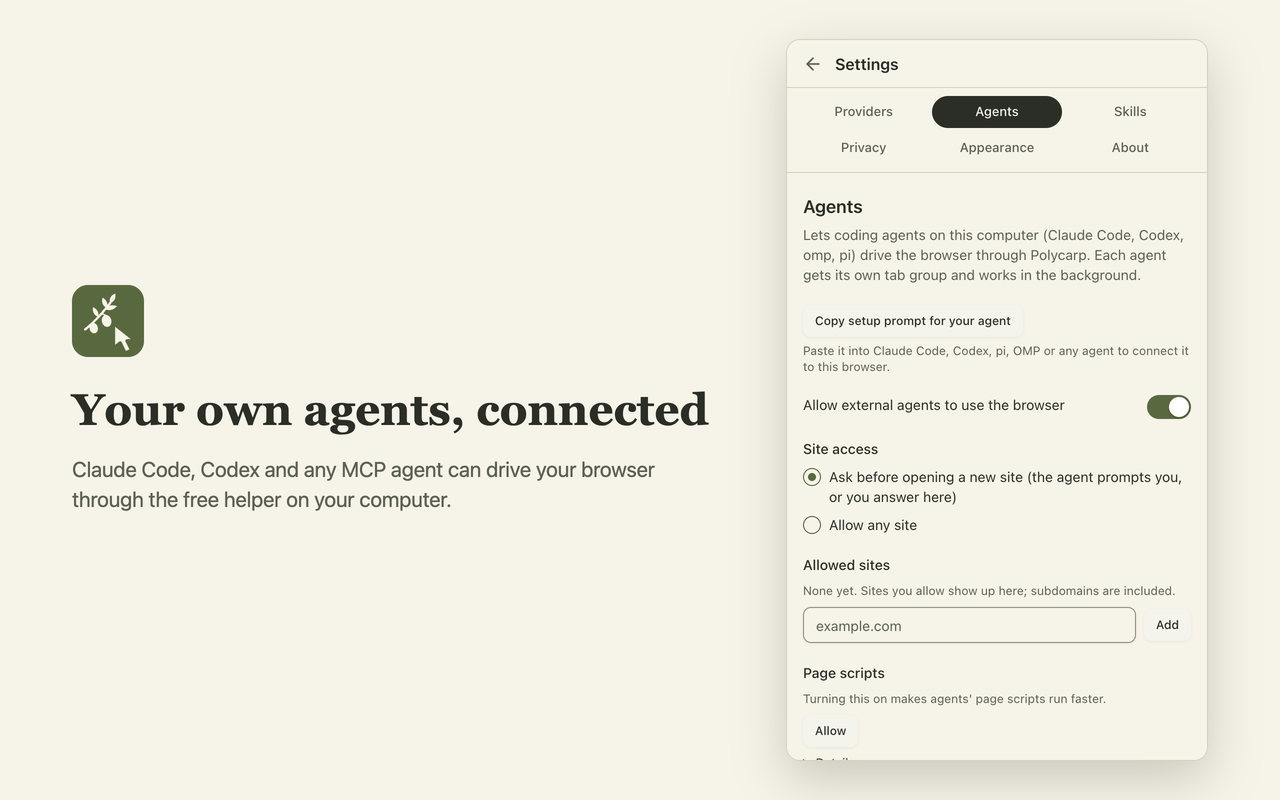
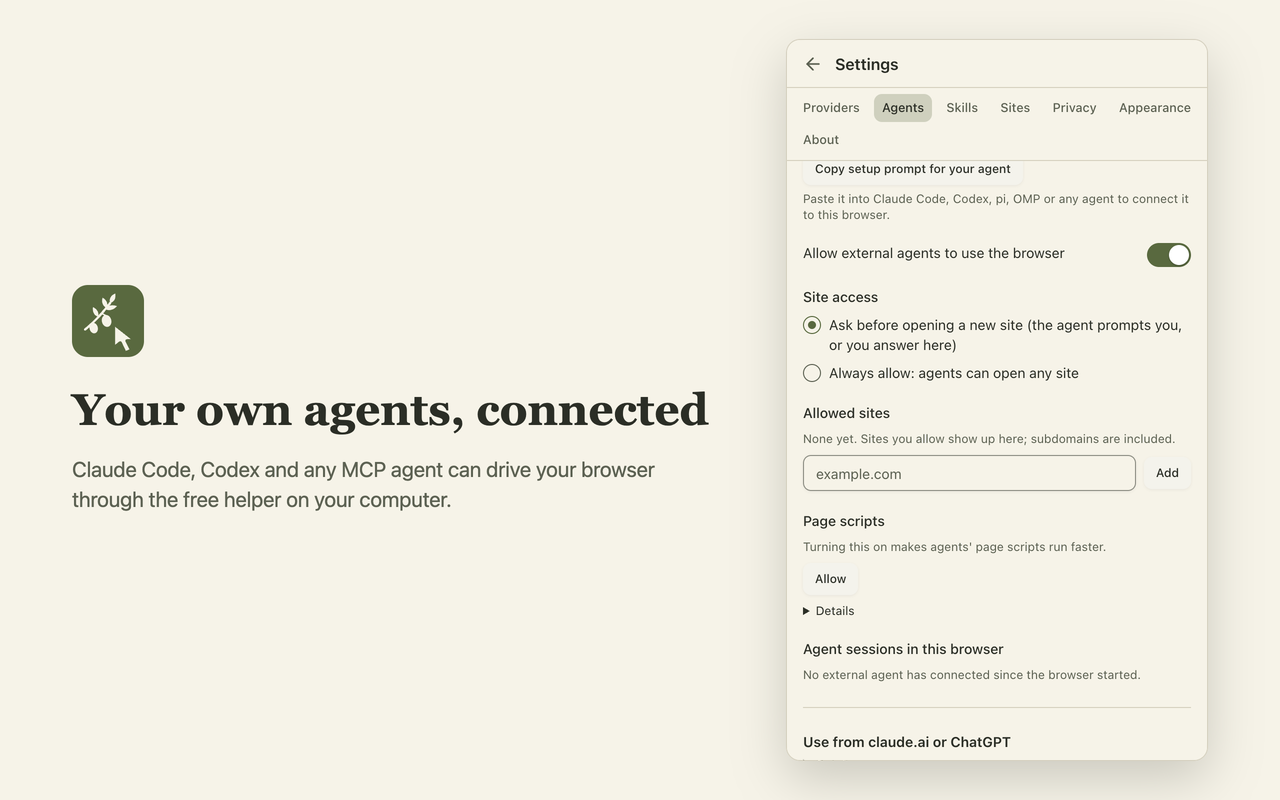
Helper: source installs are polycarp-browser; store shots redrawn (#87)
* Helper: source installs are polycarp-browser, and the panel never shows the old name

* wait no longer starves background tabs of rendering; let go of a crashed page's debugger session

* wait backs off so background tabs on Linux run IntersectionObserver; exports use the Polycarp name

infinite-scroll gates CI again.

* Bench: state what was measured about infinite-scroll on Linux

* Store: redraw the Connect, Privacy and Agents shots from the current panel

* Helper: report the name it is linked under; prompts handle older tags and helpers

* Test: isolate PATH in the linked-name check

---------

diff --git a/src/agent-setup-prompt.ts b/src/agent-setup-prompt.ts
@@ -1,12 +1,12 @@
-/** The two names a person types for this program: the one the app's helper answers to, and the one an npm link or checkout has. */
-const COMMANDS = ["polycarp browser", "tabkyra"];
+/** The names a person types for this program: the one the app's helper answers to, the one an npm link or checkout has, and the older one a helper installed earlier may still answer to. */
+const COMMANDS = ["polycarp browser", "polycarp-browser", "tabkyra"];
 
 /**
  * A prompt the user pastes into their own agent (Claude Code, Codex, pi, OMP, OpenCode,
  * Cursor, ...). The agent installs the CLI, connects the MCP server and installs the skills.
  * Plain steps only: no piped installers, and nothing that asks for a key or password.
  */
-export function agentSetupPrompt(version: string, command = "tabkyra"): string {
+export function agentSetupPrompt(version: string, command = "polycarp-browser"): string {
 	if (!COMMANDS.includes(command)) throw new Error(`Unknown command name "${command}".`);
 	// Without the version the clone can't be pinned, so refuse rather than copy a broken prompt.
 	if (!/^\d+\.\d+\.\d+/.test(version)) throw new Error(`No extension version to pin the CLI to (got "${version}").`);
@@ -20,16 +20,16 @@ export function agentSetupPrompt(version: string, command = "tabkyra"): string {
    - If it doesn't exist: mkdir -p ~/polycarp-src && cd ~/polycarp-src && git clone --depth 1 --branch browser-v${version} https://github.com/baney75/polycarp && cd polycarp
      If that tag doesn't exist, run the same clone without --branch browser-v${version} and tell me you used the newest code.
    - Then: (cd browser/cli && npm ci && npm run build && npm link)
-   The npm link gives the command the name tabkyra.${command === "tabkyra" ? "" : ` Once it succeeds, run "tabkyra" in place of "${command}" in every command below, whichever name this prompt started with.`} If npm link fails with a permissions error, run "node ~/polycarp-src/polycarp/browser/cli/dist/index.js" in place of "${command}" in every command below.
+   The npm link gives the command the name polycarp-browser, or tabkyra if the tag above is an older one: run command -v polycarp-browser, and use tabkyra if only that exists. Use the name that exists in place of "${command}" in every command below, whichever name this prompt started with. If npm link fails with a permissions error, run "node ~/polycarp-src/polycarp/browser/cli/dist/index.js" in place of "${command}" in every command below.
 3. Run: ${command} setup --yes
    It registers the browser connection and adds the MCP server to Claude Code and Codex.
 4. Connect this harness, even if Polycarp already works in another one:
-   - Any MCP client: a stdio server named "polycarp" that runs ~/.config/tabkyra/tabkyra with the argument "mcp". JSON configs need the full path, not ~.
+   - Any MCP client: a stdio server named "polycarp" that runs ~/.config/polycarp/browser/polycarp with the argument "mcp". JSON configs need the full path, not ~.
    - pi has no MCP client: run ${command} pi-extension instead.
 5. Install the skills: ${command} skill install
    If this harness reads AGENTS.md instead of skill folders: cd back to the directory step 1 printed (my project, not the Polycarp clone); if you aren't sure it's my project's root, ask me. If its AGENTS.md already has a "## Browser: Polycarp" or "## Browser: Tabkyra" section (the same section under its earlier name), leave it as it is. Otherwise run ${command} skill print >> AGENTS.md
 6. Run ${command} doctor and fix anything it reports with the command it prints.
-7. Restart or reload MCP servers if this harness needs it, then call the status tool of the MCP server named tabkyra. Tell me whether it says connected.
+7. Restart or reload MCP servers if this harness needs it, then call the status tool of the MCP server named polycarp. Tell me whether it says connected.
 
 Don't ask me for API keys or passwords. Polycarp doesn't need them for this.`;
 }
@@ -42,7 +42,7 @@ const CLOSING = "Don't ask me for API keys or passwords. Polycarp doesn't need t
  * --no-passcode, so no long-lived passcode is made or printed into the agent's output, and the
  * prompt pipes nothing into a shell.
  */
-export function remoteSetupPrompt(version: string, command = "tabkyra"): string {
+export function remoteSetupPrompt(version: string, command = "polycarp-browser"): string {
 	if (!COMMANDS.includes(command)) throw new Error(`Unknown command name "${command}".`);
 	if (!/^\d+\.\d+\.\d+/.test(version)) throw new Error(`No extension version to pin the CLI to (got "${version}").`);
 	return `Set up Polycarp (https://github.com/baney75/polycarp) so claude.ai, ChatGPT or grok.com can use my browser through my own computer. The Polycarp extension ${version} is already loaded in my browser. Run each step yourself and show me any output you can't fix. Nothing here costs money or goes through anyone else's server.
@@ -68,7 +68,7 @@ export const CONNECT_CODE = /^TK-[0-9A-HJKMNP-TV-Z]{4}-[0-9A-HJKMNP-TV-Z]{4}$/;
 
 /**
  * A prompt for an agent on another device: link it to this hub with a one-time connect code. That device may have
- * `polycarp browser` (the app) or only `tabkyra` (an npm link or checkout), so the prompt does not carry this
+ * `polycarp browser` (the app) or only `polycarp-browser` (an npm link or checkout), so the prompt does not carry this
  * helper's name: the agent finds out which one runs there and uses it for every later step.
  */
 export function deviceSetupPrompt(version: string, hubUrl: string, code: string): string {
@@ -78,8 +78,9 @@ export function deviceSetupPrompt(version: string, hubUrl: string, code: string)
 	return `Connect this computer's browser to my Polycarp hub at ${hubUrl}, so claude.ai, ChatGPT or grok.com can use it through my one connector. The Polycarp extension ${version} should already be loaded in my browser on this computer. Run each step yourself and show me any output you can't fix.
 
 1. Find the command that runs Polycarp's helper on this computer. Run: polycarp browser doctor
-   If that says the command isn't found, run: tabkyra doctor
-   Use whichever of the two runs, and write it as HELPER in every step below: HELPER is "polycarp browser" or "tabkyra", never both. If neither runs, stop and tell me to copy the setup prompt from Polycarp's Settings > Agents tab and run that first.
+   If that says the command isn't found, run: polycarp-browser doctor
+   If that isn't found either, an older install may answer to: tabkyra doctor
+   Use the first one that runs, and write it as HELPER in every step below: HELPER is exactly one of "polycarp browser", "polycarp-browser" or "tabkyra". If neither runs, stop and tell me to copy the setup prompt from Polycarp's Settings > Agents tab and run that first.
 2. Run: HELPER link ${hubUrl} --code ${code}
    The code works once and expires 10 minutes after I copied this prompt. If the hub refuses it, tell me to get a new one in Settings > Connect > Add a device.
 3. Run: HELPER link status

diff --git a/cli/src/commands.ts b/cli/src/commands.ts
@@ -285,7 +285,7 @@ export const COMMANDS: CommandSpec[] = [
 	{ name: "install", what: "Re-register the native host with every browser, or with --browser <name> only that one", group: "Troubleshoot", flags: ["--force", "--browser"] },
 	{ name: "reload", what: "Reload the extension after rebuilding dist-chrome", group: "Troubleshoot" },
 	{ name: "debug", what: "Bridge state, request timings and a benchmark (JSON)", group: "Troubleshoot" },
-	{ name: "completion", positional: 1, args: "zsh|bash|fish", what: 'Completions for the tabkyra command name: eval "$(tabkyra completion zsh)"', group: "Troubleshoot", values: ["zsh", "bash", "fish"] }, // product-name allowlist: completions are for the tabkyra command name
+	{ name: "completion", positional: 1, args: "zsh|bash|fish", what: `Completions for ${COMMAND_NAME}: eval "$(${COMMAND_NAME} completion zsh)"`, group: "Troubleshoot", values: ["zsh", "bash", "fish"] }, // product-name allowlist: the alias is still completed
 	{ name: "version", what: "This CLI's version (also --version)", group: "Troubleshoot", flags: ["--json"] },
 	{ name: "help", selfParsed: true, what: "This help (also --help)", group: "Troubleshoot", hidden: true },
 	{ name: "host", selfParsed: true, what: "The native host the browser starts", group: "Troubleshoot", hidden: true },
@@ -371,8 +371,8 @@ export function completionScript(shell: string): string | undefined {
 	const pathFlags = [...PATH_VALUES].map(sh).join(" ");
 	if (shell === "zsh") {
 		const lines = [
-			"#compdef tabkyra",
-			'# completion for the tabkyra command name (zsh). Load it with: eval "$(tabkyra completion zsh)"', // product-name allowlist: completions are for the tabkyra command name
+			"#compdef polycarp-browser tabkyra",
+			`# completion for ${COMMAND_NAME} and the tabkyra alias (zsh). Load it with: eval "$(${COMMAND_NAME} completion zsh)"`, // product-name allowlist: the alias is still completed
 			"_tabkyra() {",
 			"  local -a commands subs flags",
 			"  local paths=0",
@@ -416,11 +416,11 @@ export function completionScript(shell: string): string | undefined {
 			"# compdef exists once compinit has run. If the zshrc runs it later (oh-my-zsh, zinit,",
 			"# prezto), register at the first prompt instead of running compinit a second time.",
 			"if (( $+functions[compdef] )); then",
-			"  compdef _tabkyra tabkyra",
+			"  compdef _tabkyra polycarp-browser tabkyra",
 			"else",
 			"  autoload -Uz add-zsh-hook",
 			"  _tabkyra_register() {",
-			"    (( $+functions[compdef] )) && compdef _tabkyra tabkyra",
+			"    (( $+functions[compdef] )) && compdef _tabkyra polycarp-browser tabkyra",
 			"    add-zsh-hook -d precmd _tabkyra_register",
 			"  }",
 			"  add-zsh-hook precmd _tabkyra_register",
@@ -438,7 +438,7 @@ export function completionScript(shell: string): string | undefined {
 				return `    ${sh(f)}) ${values ? `COMPREPLY=( $(compgen -W "${values}" -- "$cur") ); ` : ""}compopt +o default 2>/dev/null; return ;;`;
 			});
 		const lines = [
-			'# completion for the tabkyra command name (bash). Load it with: eval "$(tabkyra completion bash)"', // product-name allowlist: completions are for the tabkyra command name
+			`# completion for ${COMMAND_NAME} and the tabkyra alias (bash). Load it with: eval "$(${COMMAND_NAME} completion bash)"`, // product-name allowlist: the alias is still completed
 			"_tabkyra() {",
 			'  local cur="${COMP_WORDS[COMP_CWORD]}" prev="${COMP_WORDS[COMP_CWORD-1]}" paths=0',
 			"  COMPREPLY=()",
@@ -478,13 +478,13 @@ export function completionScript(shell: string): string | undefined {
 			"  # File names only where the command takes a path (compopt needs bash 4; older bash keeps them).",
 			'  [ "$paths" = 1 ] || compopt +o default 2>/dev/null',
 			"}",
-			"complete -o bashdefault -o default -F _tabkyra tabkyra",
+			"complete -o bashdefault -o default -F _tabkyra polycarp-browser tabkyra",
 			"",
 		);
 		return lines.join("\n");
 	}
 	if (shell === "fish") {
-		const lines = ["# completion for the tabkyra command name (fish). Load it with: tabkyra completion fish | source"]; // product-name allowlist: completions are for the tabkyra command name
+		const lines = [`# completion for ${COMMAND_NAME} and the tabkyra alias (fish). Load it with: ${COMMAND_NAME} completion fish | source`]; // product-name allowlist: the alias is still completed
 		for (const c of cmds) lines.push(`complete -c tabkyra -n __fish_use_subcommand -f -a ${sh(c.name)} -d '${desc(c.summary ?? c.what)}'`);
 		for (const c of cmds) {
 			const subs = c.subcommands ?? [];
@@ -504,6 +504,8 @@ export function completionScript(shell: string): string | undefined {
 			for (const f of c.flags ?? [])
 				lines.push(`complete -c tabkyra -n '__fish_seen_subcommand_from ${sh(c.name)}' -l ${sh(f.replace(/^--/, ""))}${VALUE_FLAGS.has(f) ? " -r" : ""}`);
 		}
+		// The same rules for the name a person types now; the alias above stays completed.
+		lines.push(...lines.slice(1).map((l) => l.replace("complete -c tabkyra ", "complete -c polycarp-browser ")));
 		lines.push("");
 		return lines.join("\n");
 	}

diff --git a/src/bridge/host-command.ts b/src/bridge/host-command.ts
@@ -1,8 +1,8 @@
 import { UPDATE_STATUS_KEY } from "./protocol.js";
 
 /**
- * What a person types to run the helper: "polycarp browser" when the helper is the one inside the Polycarp app, "tabkyra" for an
- * npm link or a checkout. The helper says which in its update status; until it has, the product's own name. Someone who just
+ * What a person types to run the helper: "polycarp browser" when the helper is the one inside the Polycarp app, "polycarp-browser" for
+ * an npm link or a checkout (an older helper reports "tabkyra", and that is shown as it reports it). The helper says which in its update status; until it has, the product's own name. Someone who just
  * installed from the store has neither, so the screens that show this also say how to get the helper.
  */
 let command = "polycarp browser";
@@ -10,7 +10,7 @@ let known = false;
 
 function take(status: unknown): void {
 	const named = (status as { command?: unknown } | undefined)?.command;
-	if (named === "polycarp browser" || named === "tabkyra") {
+	if (named === "polycarp browser" || named === "polycarp-browser" || named === "tabkyra") {
 		command = named;
 		known = true;
 	}
@@ -29,9 +29,9 @@ export function hostCommand(): string {
 	return command;
 }
 
-/** A helper built from the setup prompt answers to `tabkyra`, and one that hasn't reported yet could be either. */
+/** A helper built from the setup prompt answers to `polycarp-browser`, and one that hasn't reported yet could be either. */
 export function builtHelperCommand(subcommand: string): string | undefined {
-	return known ? undefined : `tabkyra ${subcommand}`;
+	return known ? undefined : `polycarp-browser ${subcommand}`;
 }
 
 /** The command for a sentence: the one name once the helper has said which, and both until then. */

diff --git a/cli/src/self.ts b/cli/src/self.ts
@@ -1,3 +1,4 @@
+import { realpathSync } from "node:fs";
 /**
  * How this program starts a copy of itself. From source or the npm bundle that is
  * `node <script> <args>`; inside Polycarp the helper is one compiled executable (`polycarp-browser`,
@@ -5,7 +6,7 @@
  * and there is no Node and no script path to point at.
  */
 
-import { dirname, join } from "node:path";
+import { delimiter, dirname, join } from "node:path";
 
 declare const __POLYCARP_COMPILED__: boolean | undefined;
 
@@ -27,5 +28,19 @@ export function bundledExtensionDir(): string | undefined {
 	return COMPILED ? join(dirname(process.execPath), "extension") : undefined;
 }
 
-/** The command a person types for this program: `polycarp browser` inside the app, `tabkyra` for an npm link or a checkout. */
-export const COMMAND_NAME: string = COMPILED ? "polycarp browser" : "tabkyra";
+/** The command a person types for this program: `polycarp browser` inside the app, `polycarp-browser` for an npm link or a checkout. */
+export const COMMAND_NAME: string = COMPILED ? "polycarp browser" : !linkedAs("polycarp-browser") && linkedAs("tabkyra") ? "tabkyra" : "polycarp-browser";
+
+/** Whether `name` on PATH is this program. An npm link made before the rename answers only to `tabkyra`. */
+function linkedAs(name: string): boolean {
+	const script = process.argv[1];
+	if (!script) return false;
+	for (const dir of (process.env.PATH ?? "").split(delimiter)) {
+		try {
+			if (realpathSync(join(dir, name)) === realpathSync(script)) return true;
+		} catch {
+			/* not in this folder */
+		}
+	}
+	return false;
+}

diff --git a/cli/src/oauth.ts b/cli/src/oauth.ts
@@ -81,7 +81,7 @@ interface State {
 }
 
 export interface OAuthConfig {
-	/** The public origin clients reach, such as https://tabkyra.example.com. The MCP endpoint is <publicUrl>/mcp. */
+	/** The public origin clients reach, such as https://polycarp.example.com. The MCP endpoint is <publicUrl>/mcp. */
 	publicUrl: string;
 	/** Extra https hosts a client may register a redirect URI on. */
 	redirectHosts: string[];
@@ -113,7 +113,7 @@ export function normalizePublicUrl(raw: string): string {
 	try {
 		url = new URL(raw);
 	} catch {
-		throw new Error(`--public-url must be a URL like https://tabkyra.example.com (got ${raw}).`);
+		throw new Error(`--public-url must be a URL like https://polycarp.example.com (got ${raw}).`);
 	}
 	const loopback = ["localhost", "127.0.0.1", "[::1]"].includes(url.hostname);
 	if (url.protocol !== "https:" && !(url.protocol === "http:" && loopback)) throw new Error("--public-url must use https.");

diff --git a/src/dialogs/PrivacyTab.ts b/src/dialogs/PrivacyTab.ts
@@ -181,7 +181,7 @@ export class PrivacyTab extends SettingsTab {
 					${explained(
 						"Keeps a copy of your chats on this computer so your coding agents can look up what you asked Polycarp.",
 						"What is copied, and where",
-						`Keeps a copy of your side panel chats in ~/.local/share/tabkyra/threads (readable only by your user), so
+						`Keeps a copy of your side panel chats in ~/.local/share/polycarp/browser/threads (readable only by your user), so
 						agents like Claude Code and Codex can look up what you asked Polycarp, through Polycarp's MCP server or as files.
 						Keys pasted into a chat are removed from the copy, and chats from private mode are never copied. Turning
 						this off deletes the copy and stops agents reading past chats. Agents connected through ${hostCommand()} serve need a token with the threads.read scope.`,

diff --git a/src/subscriptions/SubscriptionsSection.ts b/src/subscriptions/SubscriptionsSection.ts
@@ -294,7 +294,7 @@ export class SubscriptionsSection extends LitElement {
 					</p>
 					${this.command("Claude Code", cliMcpSetup("claude", hostCommand()))}
 					${this.command("Gemini CLI", cliMcpSetup("gemini", hostCommand()))}
-					${builtHelperCommand("mcp") ? html`<p class="text-xs text-muted-foreground">Built the helper yourself? Use <code class="font-mono">tabkyra</code> in place of <code class="font-mono">${hostCommand()}</code>.</p>` : nothing}
+					${builtHelperCommand("mcp") ? html`<p class="text-xs text-muted-foreground">Built the helper yourself? Use <code class="font-mono">polycarp-browser</code> in place of <code class="font-mono">${hostCommand()}</code>.</p>` : nothing}
 				</div>
 				${this.notice ? html`<p class="text-xs text-muted-foreground" role="status">${this.notice}</p>` : nothing}
 			</div>

diff --git a/src/dialogs/SessionListDialog.ts b/src/dialogs/SessionListDialog.ts
@@ -190,8 +190,8 @@ export class TabkyraSessionListDialog extends DialogBase {
 			const a = document.createElement("a");
 			a.href = url;
 			const filename = sessionId
-				? `tabkyra-session-${exported[0]?.metadata.title?.replace(/[^a-z0-9]/gi, "-").toLowerCase() || "export"}.json`
-				: `tabkyra-sessions-${new Date().toISOString().split("T")[0]}.json`;
+				? `polycarp-session-${exported[0]?.metadata.title?.replace(/[^a-z0-9]/gi, "-").toLowerCase() || "export"}.json`
+				: `polycarp-sessions-${new Date().toISOString().split("T")[0]}.json`;
 			a.download = filename;
 			a.click();
 			URL.revokeObjectURL(url);

diff --git a/src/dialogs/UpdatesTab.ts b/src/dialogs/UpdatesTab.ts
@@ -15,7 +15,7 @@ import { POLICY_LABELS, type UpdatePolicy } from "../update/logic.js";
 import { runningFromStore } from "../update/store-install.js";
 
 const MODE_LABELS: Record<string, string> = {
-	release: "Signed release (~/.local/share/tabkyra/app)",
+	release: "Signed release (~/.local/share/polycarp/browser/app)",
 	checkout: "Git checkout (pull, build, reload)",
 	unmanaged: "Neither (update in a terminal)",
 };

diff --git a/src/dialogs/SkillsTab.ts b/src/dialogs/SkillsTab.ts
@@ -201,7 +201,7 @@ export class SkillsTab extends SettingsTab {
 		const url = URL.createObjectURL(blob);
 		const a = document.createElement("a");
 		a.href = url;
-		a.download = `tabkyra-skills-${new Date().toISOString().split("T")[0]}.json`;
+		a.download = `polycarp-skills-${new Date().toISOString().split("T")[0]}.json`;
 		a.click();
 		URL.revokeObjectURL(url);
 	}

diff --git a/AGENTS.md b/AGENTS.md
@@ -61,7 +61,7 @@ machines call them, and no person reads them:
 - the extension's stored data: storage keys, database names and the `TabkyraAppStorage` class
 - the name providers list: OpenAI and GitHub show the sign-in grant as "Tabkyra", so the sign-out text says "Tabkyra (Polycarp's earlier name)" (`agentName` and the OAuth app stay registered as they are)
 - the tab group title "Tabkyra · ..." that earlier versions made, which is still recognized and tidied
-Every command the CLI prints (`doctor`, `status`, errors, usage, services, the setup prompts) is built from `COMMAND_NAME` in `cli/src/self.ts`: `polycarp browser` inside the app, `tabkyra` for an npm link or checkout. The extension's commands for this computer come from `hostCommand()` (`src/bridge/host-command.ts`), which reads the name from the helper's update status; build them when shown, never in a module-level constant. A prompt for another device (`deviceSetupPrompt`) carries no name: the agent there finds which of the two runs. Write these strings as template literals; `cli/test/rendered-names.test.mjs` fails on a quoted string that holds `${COMMAND_NAME}`.
+Every command the CLI prints (`doctor`, `status`, errors, usage, services, the setup prompts) is built from `COMMAND_NAME` in `cli/src/self.ts`: `polycarp browser` inside the app, `polycarp-browser` for an npm link or checkout (`tabkyra` stays as a bin alias). The extension's commands for this computer come from `hostCommand()` (`src/bridge/host-command.ts`), which reads the name from the helper's update status; build them when shown, never in a module-level constant. A prompt for another device (`deviceSetupPrompt`) carries no name: the agent there finds which of the two runs. Write these strings as template literals; `cli/test/rendered-names.test.mjs` fails on a quoted string that holds `${COMMAND_NAME}`.
 Skills under `skills/` and the docs and README still say Tabkyra; they are not rewritten yet.
 
 ## Inside Polycarp (single executable)
